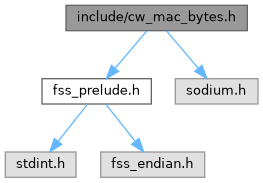
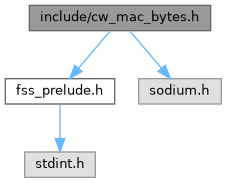
deploy: be95e78c904c8dc16ce670478e7a0774aadd4115

diff --git a/fss__prelude_8h_source.html b/fss__prelude_8h_source.html
@@ -88,47 +88,46 @@ $(document).ready(function() { init_codefold(0); });
 <div class="line"><a id="l00008" name="l00008"></a><span class="lineno">    8</span><span class="preprocessor">#pragma once</span></div>
 <div class="line"><a id="l00009" name="l00009"></a><span class="lineno">    9</span> </div>
 <div class="line"><a id="l00010" name="l00010"></a><span class="lineno">   10</span><span class="preprocessor">#include &lt;stdint.h&gt;</span></div>
-<div class="line"><a id="l00011" name="l00011"></a><span class="lineno">   11</span><span class="preprocessor">#include &lt;fss_endian.h&gt;</span></div>
-<div class="line"><a id="l00012" name="l00012"></a><span class="lineno">   12</span> </div>
-<div class="line"><a id="l00013" name="l00013"></a><span class="lineno">   13</span><span class="comment">// Verify little-endian</span></div>
-<div class="line"><a id="l00014" name="l00014"></a><span class="lineno">   14</span><span class="preprocessor">#if defined(__STDC_VERSION__) &amp;&amp; __STDC_VERSION__ &gt;= 202311L</span></div>
-<div class="line"><a id="l00015" name="l00015"></a><span class="lineno">   15</span><span class="preprocessor">#include &lt;stdbit.h&gt;</span></div>
-<div class="line"><a id="l00016" name="l00016"></a><span class="lineno">   16</span><span class="preprocessor">#if __STDC_ENDIAN_NATIVE__ != __STDC_ENDIAN_LITTLE__</span></div>
-<div class="line"><a id="l00017" name="l00017"></a><span class="lineno">   17</span><span class="preprocessor">#error &quot;only support little-endian&quot;</span></div>
-<div class="line"><a id="l00018" name="l00018"></a><span class="lineno">   18</span><span class="preprocessor">#endif</span></div>
-<div class="line"><a id="l00019" name="l00019"></a><span class="lineno">   19</span><span class="preprocessor">#elif defined(__GNUC__) || defined(__clang__)</span></div>
-<div class="line"><a id="l00020" name="l00020"></a><span class="lineno">   20</span><span class="preprocessor">#if __BYTE_ORDER__ != __ORDER_LITTLE_ENDIAN__</span></div>
-<div class="line"><a id="l00021" name="l00021"></a><span class="lineno">   21</span><span class="preprocessor">#error &quot;only support little-endian&quot;</span></div>
-<div class="line"><a id="l00022" name="l00022"></a><span class="lineno">   22</span><span class="preprocessor">#endif</span></div>
-<div class="line"><a id="l00023" name="l00023"></a><span class="lineno">   23</span><span class="preprocessor">#else</span></div>
-<div class="line"><a id="l00024" name="l00024"></a><span class="lineno">   24</span><span class="preprocessor">#warning &quot;cannot verify little-endian: only verify for c23/gcc/clang&quot;</span></div>
-<div class="line"><a id="l00025" name="l00025"></a><span class="lineno">   25</span><span class="preprocessor">#endif</span></div>
-<div class="line"><a id="l00026" name="l00026"></a><span class="lineno">   26</span> </div>
-<div class="line"><a id="l00027" name="l00027"></a><span class="lineno">   27</span><span class="preprocessor">#ifndef kLambda</span></div>
-<div class="line"><a id="l00032" name="l00032"></a><span class="lineno"><a class="line" href="fss__prelude_8h.html#a8ea7c7457cb8cdd078d25438e0d22956">   32</a></span><span class="preprocessor">#define kLambda 16</span></div>
-<div class="line"><a id="l00033" name="l00033"></a><span class="lineno">   33</span><span class="preprocessor">#endif</span></div>
-<div class="line"><a id="l00034" name="l00034"></a><span class="lineno">   34</span> </div>
-<div class="line"><a id="l00035" name="l00035"></a><span class="lineno">   35</span><span class="preprocessor">#ifndef kParallelDepth</span></div>
-<div class="line"><a id="l00043" name="l00043"></a><span class="lineno"><a class="line" href="fss__prelude_8h.html#a87bcd8fd3ce0decf5816507b314ec7e6">   43</a></span><span class="preprocessor">#define kParallelDepth 1</span></div>
-<div class="line"><a id="l00044" name="l00044"></a><span class="lineno">   44</span><span class="preprocessor">#endif</span></div>
-<div class="line"><a id="l00045" name="l00045"></a><span class="lineno">   45</span> </div>
-<div class="line"><a id="l00046" name="l00046"></a><span class="lineno">   46</span><span class="preprocessor">#if __CUDACC__</span></div>
-<div class="line"><a id="l00047" name="l00047"></a><span class="lineno">   47</span><span class="preprocessor">#define HOST_DEVICE __host__ __device__</span></div>
-<div class="line"><a id="l00048" name="l00048"></a><span class="lineno">   48</span><span class="preprocessor">#define DEVICE_CONST __constant__</span></div>
-<div class="line"><a id="l00049" name="l00049"></a><span class="lineno">   49</span><span class="preprocessor">#else</span></div>
-<div class="line"><a id="l00050" name="l00050"></a><span class="lineno">   50</span><span class="preprocessor">#define HOST_DEVICE</span></div>
-<div class="line"><a id="l00051" name="l00051"></a><span class="lineno">   51</span><span class="preprocessor">#define DEVICE_CONST</span></div>
-<div class="line"><a id="l00052" name="l00052"></a><span class="lineno">   52</span><span class="preprocessor">#endif</span></div>
-<div class="line"><a id="l00053" name="l00053"></a><span class="lineno">   53</span> </div>
-<div class="foldopen" id="foldopen00057" data-start="{" data-end="};">
-<div class="line"><a id="l00057" name="l00057"></a><span class="lineno"><a class="line" href="structBits.html">   57</a></span><span class="keyword">typedef</span> <span class="keyword">struct </span>{</div>
-<div class="line"><a id="l00061" name="l00061"></a><span class="lineno"><a class="line" href="structBits.html#aa6cb721fc060be16dbef5d9d26fcedd3">   61</a></span>  uint8_t *<a class="code hl_variable" href="structBits.html#aa6cb721fc060be16dbef5d9d26fcedd3">bytes</a>;</div>
-<div class="line"><a id="l00065" name="l00065"></a><span class="lineno"><a class="line" href="structBits.html#acaa2f135e0289be84b0bb3d28f9072ae">   65</a></span>  <span class="keywordtype">int</span> <a class="code hl_variable" href="structBits.html#acaa2f135e0289be84b0bb3d28f9072ae">bitlen</a>;</div>
-<div class="line"><a id="l00066" name="l00066"></a><span class="lineno">   66</span>} <a class="code hl_struct" href="structBits.html">Bits</a>;</div>
+<div class="line"><a id="l00011" name="l00011"></a><span class="lineno">   11</span> </div>
+<div class="line"><a id="l00012" name="l00012"></a><span class="lineno">   12</span><span class="comment">// Verify little-endian</span></div>
+<div class="line"><a id="l00013" name="l00013"></a><span class="lineno">   13</span><span class="preprocessor">#if defined(__STDC_VERSION__) &amp;&amp; __STDC_VERSION__ &gt;= 202311L</span></div>
+<div class="line"><a id="l00014" name="l00014"></a><span class="lineno">   14</span><span class="preprocessor">#include &lt;stdbit.h&gt;</span></div>
+<div class="line"><a id="l00015" name="l00015"></a><span class="lineno">   15</span><span class="preprocessor">#if __STDC_ENDIAN_NATIVE__ != __STDC_ENDIAN_LITTLE__</span></div>
+<div class="line"><a id="l00016" name="l00016"></a><span class="lineno">   16</span><span class="preprocessor">#error &quot;only support little-endian&quot;</span></div>
+<div class="line"><a id="l00017" name="l00017"></a><span class="lineno">   17</span><span class="preprocessor">#endif</span></div>
+<div class="line"><a id="l00018" name="l00018"></a><span class="lineno">   18</span><span class="preprocessor">#elif defined(__GNUC__) || defined(__clang__)</span></div>
+<div class="line"><a id="l00019" name="l00019"></a><span class="lineno">   19</span><span class="preprocessor">#if __BYTE_ORDER__ != __ORDER_LITTLE_ENDIAN__</span></div>
+<div class="line"><a id="l00020" name="l00020"></a><span class="lineno">   20</span><span class="preprocessor">#error &quot;only support little-endian&quot;</span></div>
+<div class="line"><a id="l00021" name="l00021"></a><span class="lineno">   21</span><span class="preprocessor">#endif</span></div>
+<div class="line"><a id="l00022" name="l00022"></a><span class="lineno">   22</span><span class="preprocessor">#else</span></div>
+<div class="line"><a id="l00023" name="l00023"></a><span class="lineno">   23</span><span class="preprocessor">#warning &quot;cannot verify little-endian: only verify for c23/gcc/clang&quot;</span></div>
+<div class="line"><a id="l00024" name="l00024"></a><span class="lineno">   24</span><span class="preprocessor">#endif</span></div>
+<div class="line"><a id="l00025" name="l00025"></a><span class="lineno">   25</span> </div>
+<div class="line"><a id="l00026" name="l00026"></a><span class="lineno">   26</span><span class="preprocessor">#ifndef kLambda</span></div>
+<div class="line"><a id="l00031" name="l00031"></a><span class="lineno"><a class="line" href="fss__prelude_8h.html#a8ea7c7457cb8cdd078d25438e0d22956">   31</a></span><span class="preprocessor">#define kLambda 16</span></div>
+<div class="line"><a id="l00032" name="l00032"></a><span class="lineno">   32</span><span class="preprocessor">#endif</span></div>
+<div class="line"><a id="l00033" name="l00033"></a><span class="lineno">   33</span> </div>
+<div class="line"><a id="l00034" name="l00034"></a><span class="lineno">   34</span><span class="preprocessor">#ifndef kParallelDepth</span></div>
+<div class="line"><a id="l00042" name="l00042"></a><span class="lineno"><a class="line" href="fss__prelude_8h.html#a87bcd8fd3ce0decf5816507b314ec7e6">   42</a></span><span class="preprocessor">#define kParallelDepth 1</span></div>
+<div class="line"><a id="l00043" name="l00043"></a><span class="lineno">   43</span><span class="preprocessor">#endif</span></div>
+<div class="line"><a id="l00044" name="l00044"></a><span class="lineno">   44</span> </div>
+<div class="line"><a id="l00045" name="l00045"></a><span class="lineno">   45</span><span class="preprocessor">#if __CUDACC__</span></div>
+<div class="line"><a id="l00046" name="l00046"></a><span class="lineno">   46</span><span class="preprocessor">#define HOST_DEVICE __host__ __device__</span></div>
+<div class="line"><a id="l00047" name="l00047"></a><span class="lineno">   47</span><span class="preprocessor">#define DEVICE_CONST __constant__</span></div>
+<div class="line"><a id="l00048" name="l00048"></a><span class="lineno">   48</span><span class="preprocessor">#else</span></div>
+<div class="line"><a id="l00049" name="l00049"></a><span class="lineno">   49</span><span class="preprocessor">#define HOST_DEVICE</span></div>
+<div class="line"><a id="l00050" name="l00050"></a><span class="lineno">   50</span><span class="preprocessor">#define DEVICE_CONST</span></div>
+<div class="line"><a id="l00051" name="l00051"></a><span class="lineno">   51</span><span class="preprocessor">#endif</span></div>
+<div class="line"><a id="l00052" name="l00052"></a><span class="lineno">   52</span> </div>
+<div class="foldopen" id="foldopen00056" data-start="{" data-end="};">
+<div class="line"><a id="l00056" name="l00056"></a><span class="lineno"><a class="line" href="structBits.html">   56</a></span><span class="keyword">typedef</span> <span class="keyword">struct </span>{</div>
+<div class="line"><a id="l00060" name="l00060"></a><span class="lineno"><a class="line" href="structBits.html#aa6cb721fc060be16dbef5d9d26fcedd3">   60</a></span>  uint8_t *<a class="code hl_variable" href="structBits.html#aa6cb721fc060be16dbef5d9d26fcedd3">bytes</a>;</div>
+<div class="line"><a id="l00064" name="l00064"></a><span class="lineno"><a class="line" href="structBits.html#acaa2f135e0289be84b0bb3d28f9072ae">   64</a></span>  <span class="keywordtype">int</span> <a class="code hl_variable" href="structBits.html#acaa2f135e0289be84b0bb3d28f9072ae">bitlen</a>;</div>
+<div class="line"><a id="l00065" name="l00065"></a><span class="lineno">   65</span>} <a class="code hl_struct" href="structBits.html">Bits</a>;</div>
 </div>
-<div class="ttc" id="astructBits_html"><div class="ttname"><a href="structBits.html">Bits</a></div><div class="ttdoc">Support bitlen that is not a multiple of 8.</div><div class="ttdef"><b>Definition</b> fss_prelude.h:57</div></div>
-<div class="ttc" id="astructBits_html_aa6cb721fc060be16dbef5d9d26fcedd3"><div class="ttname"><a href="structBits.html#aa6cb721fc060be16dbef5d9d26fcedd3">Bits::bytes</a></div><div class="ttdeci">uint8_t * bytes</div><div class="ttdoc">Little-endian bytes.</div><div class="ttdef"><b>Definition</b> fss_prelude.h:61</div></div>
-<div class="ttc" id="astructBits_html_acaa2f135e0289be84b0bb3d28f9072ae"><div class="ttname"><a href="structBits.html#acaa2f135e0289be84b0bb3d28f9072ae">Bits::bitlen</a></div><div class="ttdeci">int bitlen</div><div class="ttdoc">Bit len.</div><div class="ttdef"><b>Definition</b> fss_prelude.h:65</div></div>
+<div class="ttc" id="astructBits_html"><div class="ttname"><a href="structBits.html">Bits</a></div><div class="ttdoc">Support bitlen that is not a multiple of 8.</div><div class="ttdef"><b>Definition</b> fss_prelude.h:56</div></div>
+<div class="ttc" id="astructBits_html_aa6cb721fc060be16dbef5d9d26fcedd3"><div class="ttname"><a href="structBits.html#aa6cb721fc060be16dbef5d9d26fcedd3">Bits::bytes</a></div><div class="ttdeci">uint8_t * bytes</div><div class="ttdoc">Little-endian bytes.</div><div class="ttdef"><b>Definition</b> fss_prelude.h:60</div></div>
+<div class="ttc" id="astructBits_html_acaa2f135e0289be84b0bb3d28f9072ae"><div class="ttname"><a href="structBits.html#acaa2f135e0289be84b0bb3d28f9072ae">Bits::bitlen</a></div><div class="ttdeci">int bitlen</div><div class="ttdoc">Bit len.</div><div class="ttdef"><b>Definition</b> fss_prelude.h:64</div></div>
 </div><!-- fragment --></div><!-- contents -->
 <!-- start footer part -->
 <hr class="footer"/><address class="footer"><small>

diff --git a/dpf_8h_source.html b/dpf_8h_source.html
@@ -126,7 +126,7 @@ $(document).ready(function() { init_codefold(0); });
 <div class="ttc" id="adpf_8h_html_a59da95158a226307c56066bdeb0c5996"><div class="ttname"><a href="dpf_8h.html#a59da95158a226307c56066bdeb0c5996">dpf_eval_full_domain</a></div><div class="ttdeci">void dpf_eval_full_domain(uint8_t *sbuf, uint8_t b, DpfKey k, int x_bitlen)</div><div class="ttdoc">DPF full domain eval i.e.</div><div class="ttdef"><b>Definition</b> dpf.c:210</div></div>
 <div class="ttc" id="adpf_8h_html_a65e9e04b9b6d043013fa09adc8a58597"><div class="ttname"><a href="dpf_8h.html#a65e9e04b9b6d043013fa09adc8a58597">dpf_eval</a></div><div class="ttdeci">HOST_DEVICE void dpf_eval(uint8_t *sbuf, uint8_t b, DpfKey k, Bits x)</div><div class="ttdoc">DPF eval at 1 input point.</div><div class="ttdef"><b>Definition</b> dpf.c:101</div></div>
 <div class="ttc" id="afss__decl_8h_html"><div class="ttname"><a href="fss__decl_8h.html">fss_decl.h</a></div></div>
-<div class="ttc" id="astructBits_html"><div class="ttname"><a href="structBits.html">Bits</a></div><div class="ttdoc">Support bitlen that is not a multiple of 8.</div><div class="ttdef"><b>Definition</b> fss_prelude.h:57</div></div>
+<div class="ttc" id="astructBits_html"><div class="ttname"><a href="structBits.html">Bits</a></div><div class="ttdoc">Support bitlen that is not a multiple of 8.</div><div class="ttdef"><b>Definition</b> fss_prelude.h:56</div></div>
 <div class="ttc" id="astructDpfKey_html"><div class="ttname"><a href="structDpfKey.html">DpfKey</a></div><div class="ttdoc">DPF key.</div><div class="ttdef"><b>Definition</b> dpf.h:32</div></div>
 <div class="ttc" id="astructDpfKey_html_a606b0526d57ce795c7de0133203ecb56"><div class="ttname"><a href="structDpfKey.html#a606b0526d57ce795c7de0133203ecb56">DpfKey::cws</a></div><div class="ttdeci">uint8_t * cws</div><div class="ttdoc">Correction words whose len = kDpfCwLen * kLambda.</div><div class="ttdef"><b>Definition</b> dpf.h:36</div></div>
 <div class="ttc" id="astructDpfKey_html_a75235711c67fe084d6551491580e1528"><div class="ttname"><a href="structDpfKey.html#a75235711c67fe084d6551491580e1528">DpfKey::cw_np1</a></div><div class="ttdeci">uint8_t * cw_np1</div><div class="ttdoc">Last correction word whose len = kLambda.</div><div class="ttdef"><b>Definition</b> dpf.h:40</div></div>

diff --git a/dcf_8h_source.html b/dcf_8h_source.html
@@ -133,7 +133,7 @@ $(document).ready(function() { init_codefold(0); });
 <div class="ttc" id="adcf_8h_html_a9c227051829479618e4f52c0b3642243a885aecfd7fd601743280c670f8578d21"><div class="ttname"><a href="dcf_8h.html#a9c227051829479618e4f52c0b3642243a885aecfd7fd601743280c670f8578d21">kLtAlpha</a></div><div class="ttdeci">@ kLtAlpha</div><div class="ttdoc">Output = beta when input &lt; alpha, otherwise output = 0.</div><div class="ttdef"><b>Definition</b> dcf.h:18</div></div>
 <div class="ttc" id="adcf_8h_html_aee5883477f69042dc482113629545758"><div class="ttname"><a href="dcf_8h.html#aee5883477f69042dc482113629545758">dcf_eval</a></div><div class="ttdeci">HOST_DEVICE void dcf_eval(uint8_t *sbuf, uint8_t b, DcfKey k, Bits x)</div><div class="ttdoc">DCF eval at 1 input point.</div><div class="ttdef"><b>Definition</b> dcf.c:145</div></div>
 <div class="ttc" id="afss__decl_8h_html"><div class="ttname"><a href="fss__decl_8h.html">fss_decl.h</a></div></div>
-<div class="ttc" id="astructBits_html"><div class="ttname"><a href="structBits.html">Bits</a></div><div class="ttdoc">Support bitlen that is not a multiple of 8.</div><div class="ttdef"><b>Definition</b> fss_prelude.h:57</div></div>
+<div class="ttc" id="astructBits_html"><div class="ttname"><a href="structBits.html">Bits</a></div><div class="ttdoc">Support bitlen that is not a multiple of 8.</div><div class="ttdef"><b>Definition</b> fss_prelude.h:56</div></div>
 <div class="ttc" id="astructCmpFunc_html"><div class="ttname"><a href="structCmpFunc.html">CmpFunc</a></div><div class="ttdoc">Comparison function.</div><div class="ttdef"><b>Definition</b> dcf.h:29</div></div>
 <div class="ttc" id="astructCmpFunc_html_aad0c3f6c0d98c54ec66d6debec290f3b"><div class="ttname"><a href="structCmpFunc.html#aad0c3f6c0d98c54ec66d6debec290f3b">CmpFunc::beta</a></div><div class="ttdeci">uint8_t * beta</div><div class="ttdoc">Little-endian kLambda bytes viewed as a group element.</div><div class="ttdef"><b>Definition</b> dcf.h:35</div></div>
 <div class="ttc" id="astructDcfKey_html"><div class="ttname"><a href="structDcfKey.html">DcfKey</a></div><div class="ttdoc">DCF key.</div><div class="ttdef"><b>Definition</b> dcf.h:44</div></div>

diff --git a/cw__mac__bytes_8h.html b/cw__mac__bytes_8h.html
@@ -87,15 +87,13 @@ Include dependency graph for cw_mac_bytes.h:</div>
 <div class="dyncontent">
 <div class="center"><img src="cw__mac__bytes_8h__incl.png" border="0" usemap="#ainclude_2cw__mac__bytes_8h" alt=""/></div>
 <map name="ainclude_2cw__mac__bytes_8h" id="ainclude_2cw__mac__bytes_8h">
-<area shape="rect" title=" " alt="" coords="66,5,247,31"/>
-<area shape="rect" href="fss__prelude_8h.html" title=" " alt="" coords="42,79,151,104"/>
-<area shape="poly" title=" " alt="" coords="149,33,117,70,113,66,145,29"/>
-<area shape="rect" title=" " alt="" coords="175,79,258,104"/>
-<area shape="poly" title=" " alt="" coords="169,29,200,66,196,70,165,33"/>
-<area shape="rect" title=" " alt="" coords="5,152,76,177"/>
-<area shape="poly" title=" " alt="" coords="90,106,60,143,56,140,85,103"/>
-<area shape="rect" title=" " alt="" coords="101,152,205,177"/>
-<area shape="poly" title=" " alt="" coords="108,103,137,140,133,143,104,106"/>
+<area shape="rect" title=" " alt="" coords="29,5,211,31"/>
+<area shape="rect" href="fss__prelude_8h.html" title=" " alt="" coords="5,79,115,104"/>
+<area shape="poly" title=" " alt="" coords="112,33,81,70,76,66,108,29"/>
+<area shape="rect" title=" " alt="" coords="139,79,221,104"/>
+<area shape="poly" title=" " alt="" coords="132,29,164,66,159,70,128,33"/>
+<area shape="rect" title=" " alt="" coords="25,152,95,177"/>
+<area shape="poly" title=" " alt="" coords="63,104,63,138,57,138,57,104"/>
 </map>
 </div>
 </div>

diff --git a/dcf_8h.html b/dcf_8h.html
@@ -88,15 +88,13 @@ Include dependency graph for dcf.h:</div>
 <div class="dyncontent">
 <div class="center"><img src="dcf_8h__incl.png" border="0" usemap="#ainclude_2dcf_8h" alt=""/></div>
 <map name="ainclude_2dcf_8h" id="ainclude_2dcf_8h">
-<area shape="rect" title=" " alt="" coords="45,5,149,31"/>
-<area shape="rect" href="fss__decl_8h.html" title=" " alt="" coords="53,79,140,104"/>
-<area shape="poly" title=" " alt="" coords="99,31,99,65,94,65,94,31"/>
-<area shape="rect" href="fss__prelude_8h.html" title=" " alt="" coords="42,152,151,177"/>
-<area shape="poly" title=" " alt="" coords="99,104,99,138,94,138,94,104"/>
-<area shape="rect" title=" " alt="" coords="5,225,76,251"/>
-<area shape="poly" title=" " alt="" coords="90,179,60,216,56,213,85,176"/>
-<area shape="rect" title=" " alt="" coords="101,225,205,251"/>
-<area shape="poly" title=" " alt="" coords="108,176,137,213,133,216,104,179"/>
+<area shape="rect" title=" " alt="" coords="8,5,112,31"/>
+<area shape="rect" href="fss__decl_8h.html" title=" " alt="" coords="17,79,103,104"/>
+<area shape="poly" title=" " alt="" coords="63,31,63,65,57,65,57,31"/>
+<area shape="rect" href="fss__prelude_8h.html" title=" " alt="" coords="5,152,115,177"/>
+<area shape="poly" title=" " alt="" coords="63,104,63,138,57,138,57,104"/>
+<area shape="rect" title=" " alt="" coords="25,225,95,251"/>
+<area shape="poly" title=" " alt="" coords="63,178,63,212,57,212,57,178"/>
 </map>
 </div>
 </div>

diff --git a/dpf_8h.html b/dpf_8h.html
@@ -87,15 +87,13 @@ Include dependency graph for dpf.h:</div>
 <div class="dyncontent">
 <div class="center"><img src="dpf_8h__incl.png" border="0" usemap="#ainclude_2dpf_8h" alt=""/></div>
 <map name="ainclude_2dpf_8h" id="ainclude_2dpf_8h">
-<area shape="rect" title=" " alt="" coords="44,5,149,31"/>
-<area shape="rect" href="fss__decl_8h.html" title=" " alt="" coords="53,79,140,104"/>
-<area shape="poly" title=" " alt="" coords="99,31,99,65,94,65,94,31"/>
-<area shape="rect" href="fss__prelude_8h.html" title=" " alt="" coords="42,152,151,177"/>
-<area shape="poly" title=" " alt="" coords="99,104,99,138,94,138,94,104"/>
-<area shape="rect" title=" " alt="" coords="5,225,76,251"/>
-<area shape="poly" title=" " alt="" coords="90,179,60,216,56,213,85,176"/>
-<area shape="rect" title=" " alt="" coords="101,225,205,251"/>
-<area shape="poly" title=" " alt="" coords="108,176,137,213,133,216,104,179"/>
+<area shape="rect" title=" " alt="" coords="7,5,113,31"/>
+<area shape="rect" href="fss__decl_8h.html" title=" " alt="" coords="17,79,103,104"/>
+<area shape="poly" title=" " alt="" coords="63,31,63,65,57,65,57,31"/>
+<area shape="rect" href="fss__prelude_8h.html" title=" " alt="" coords="5,152,115,177"/>
+<area shape="poly" title=" " alt="" coords="63,104,63,138,57,138,57,104"/>
+<area shape="rect" title=" " alt="" coords="25,225,95,251"/>
+<area shape="poly" title=" " alt="" coords="63,178,63,212,57,212,57,178"/>
 </map>
 </div>
 </div>

diff --git a/fss__decl_8h.html b/fss__decl_8h.html
@@ -85,13 +85,11 @@ Include dependency graph for fss_decl.h:</div>
 <div class="dyncontent">
 <div class="center"><img src="fss__decl_8h__incl.png" border="0" usemap="#ainclude_2fss__decl_8h" alt=""/></div>
 <map name="ainclude_2fss__decl_8h" id="ainclude_2fss__decl_8h">
-<area shape="rect" title=" " alt="" coords="27,5,166,31"/>
-<area shape="rect" href="fss__prelude_8h.html" title=" " alt="" coords="42,79,151,104"/>
-<area shape="poly" title=" " alt="" coords="99,31,99,65,94,65,94,31"/>
-<area shape="rect" title=" " alt="" coords="5,152,76,177"/>
-<area shape="poly" title=" " alt="" coords="90,106,60,143,56,140,85,103"/>
-<area shape="rect" title=" " alt="" coords="101,152,205,177"/>
-<area shape="poly" title=" " alt="" coords="108,103,137,140,133,143,104,106"/>
+<area shape="rect" title=" " alt="" coords="5,5,144,31"/>
+<area shape="rect" href="fss__prelude_8h.html" title=" " alt="" coords="20,79,129,104"/>
+<area shape="poly" title=" " alt="" coords="77,31,77,65,72,65,72,31"/>
+<area shape="rect" title=" " alt="" coords="39,152,110,177"/>
+<area shape="poly" title=" " alt="" coords="77,104,77,138,72,138,72,104"/>
 </map>
 </div>
 </div><div class="textblock"><div class="dynheader">

diff --git a/fss__prelude_8h.html b/fss__prelude_8h.html
@@ -81,17 +81,14 @@ $(function() {
 </div><!--header-->
 <div class="contents">
 <div class="textblock"><code>#include &lt;stdint.h&gt;</code><br />
-<code>#include &lt;fss_endian.h&gt;</code><br />
 </div><div class="textblock"><div class="dynheader">
 Include dependency graph for fss_prelude.h:</div>
 <div class="dyncontent">
 <div class="center"><img src="fss__prelude_8h__incl.png" border="0" usemap="#ainclude_2fss__prelude_8h" alt=""/></div>
 <map name="ainclude_2fss__prelude_8h" id="ainclude_2fss__prelude_8h">
-<area shape="rect" title=" " alt="" coords="17,5,177,31"/>
-<area shape="rect" title=" " alt="" coords="5,79,76,104"/>
-<area shape="poly" title=" " alt="" coords="90,33,60,69,56,66,85,29"/>
-<area shape="rect" title=" " alt="" coords="101,79,205,104"/>
-<area shape="poly" title=" " alt="" coords="108,29,137,66,133,69,104,33"/>
+<area shape="rect" title=" " alt="" coords="5,5,165,31"/>
+<area shape="rect" title=" " alt="" coords="50,79,121,104"/>
+<area shape="poly" title=" " alt="" coords="88,31,88,65,83,65,83,31"/>
 </map>
 </div>
 </div><div class="textblock"><div class="dynheader">
